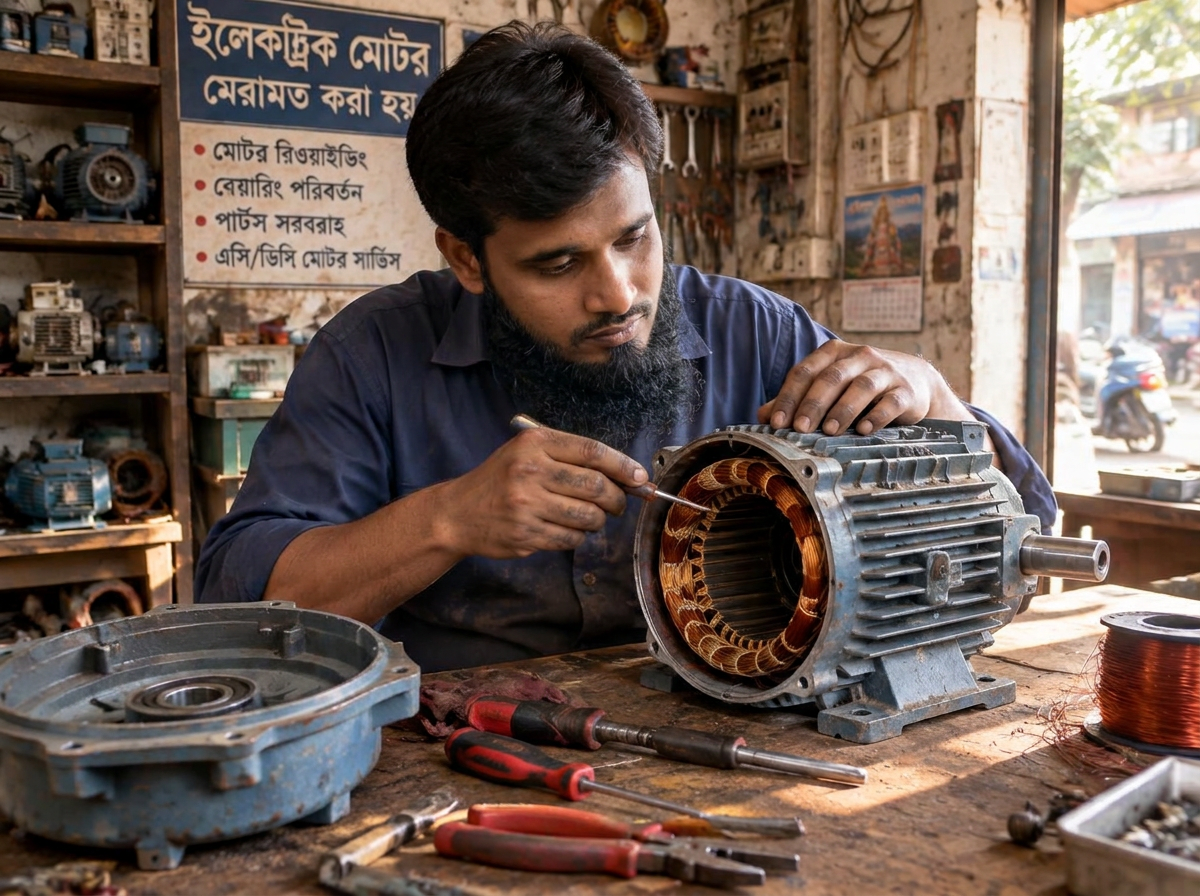
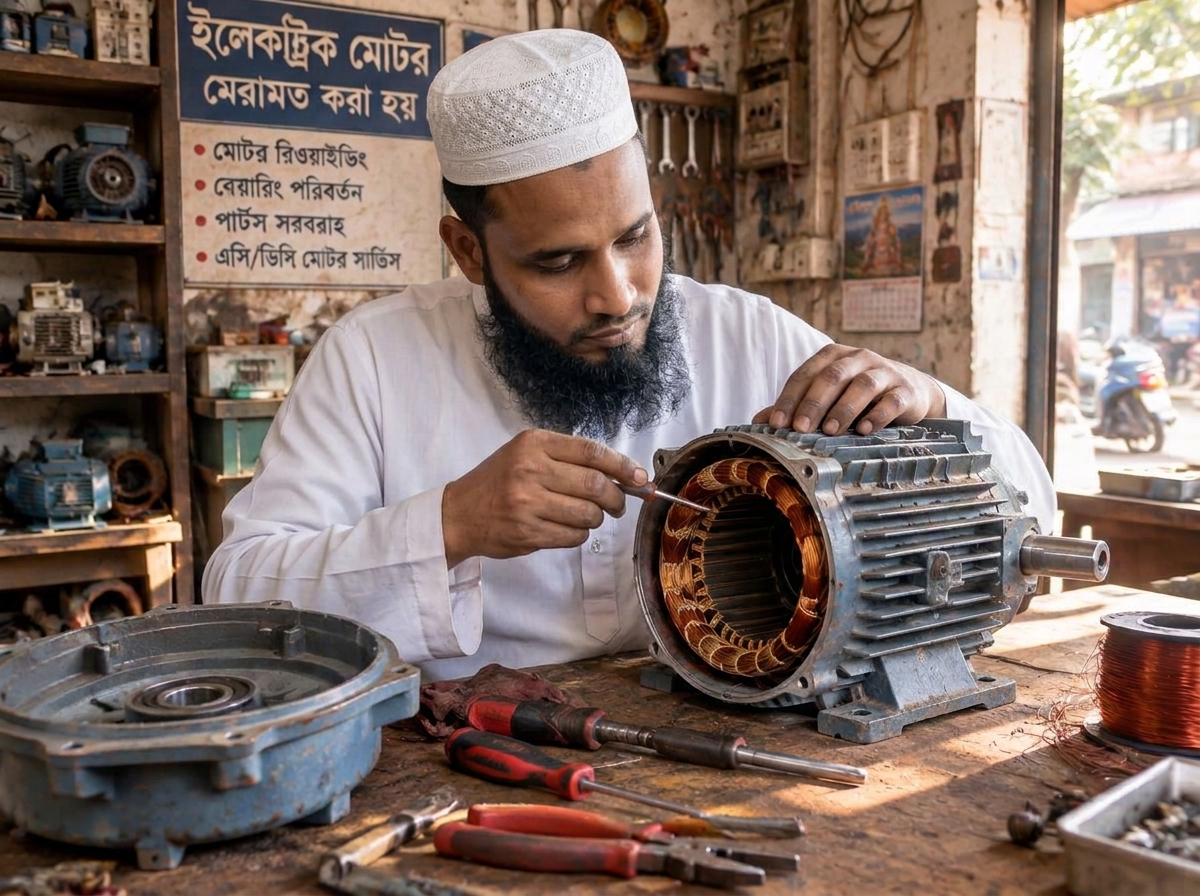
updated image and content

Changed region(s): [[0.1542, 0.0, 0.8942, 0.7812]]

diff --git a/src/routes/index.tsx b/src/routes/index.tsx
@@ -3,10 +3,11 @@ import { useEffect, useState, type ReactNode } from "react";
 import { ArrowRight, CheckCircle2, ClipboardList, Cog, MapPin, Menu, MessageCircle, Phone, PhoneCall, Search, Wrench, X } from "lucide-react";
 import { business, buyMotorMessage, rentalMessage, sellMotorMessage, serviceMessage, setupMessage, telHref, whatsappHref } from "@/lib/business-config";
 import { ContactForm } from "@/components/site/ContactForm";
-import ashikImg from "@/assets/ashik.jpg";
-import wazedImg from "@/assets/wazed-ali.jpg";
+import person1Img from "@/assets/person2.jpg";
+import person2Img from "@/assets/person1.jpg";
 import hero from "@/assets/hero-motor.jpg";
 import coil from "@/assets/coil.jpg";
+import coil2 from "@/assets/Rewinding.png";
 import threePhase from "@/assets/three-phase.jpg";
 import submersible from "@/assets/submersible.jpg";
 import riceMill from "@/assets/rice-mill.jpg";
@@ -32,7 +33,7 @@ export const Route = createFileRoute("/")({
 const services = [
   { t: "সিঙ্গেল ফেজ মোটর মেরামত", d: "বাসাবাড়ি ও দোকানের সিঙ্গেল ফেজ মোটর, ক্যাপাসিটর ও সুইচ সমস্যা।", img: coil, alt: "সিঙ্গেল ফেজ মোটরের কয়েল" },
   { t: "থ্রি ফেজ মোটর মেরামত", d: "কারখানা ও মিলের থ্রি ফেজ মোটরের সার্ভিসিং ও রিওয়াইন্ডিং।", img: threePhase, alt: "নীল রঙের থ্রি ফেজ ইন্ডাস্ট্রিয়াল মোটর" },
-  { t: "মোটর কয়েল রিওয়াইন্ডিং", d: "পুড়ে যাওয়া মোটরের কয়েল নতুন কপার তার দিয়ে বাধাই।", img: coil, alt: "মোটরের স্টেটরে কপার কয়েল বাধাই" },
+  { t: "মোটর কয়েল রিওয়াইন্ডিং", d: "পুড়ে যাওয়া মোটরের কয়েল নতুন কপার তার দিয়ে বাধাই।", img: coil2, alt: "মোটরের স্টেটরে কপার কয়েল বাধাই" },
   { t: "রাইস মিল ও কারখানার মোটর", d: "রাইস মিলের মোটর ও সংশ্লিষ্ট বৈদ্যুতিক যন্ত্রের মেরামত।", img: riceMill, alt: "বেল্ট ড্রাইভসহ রাইস মিলের মোটর" },
   { t: "সাবমার্সিবল পাম্প মেরামত", d: "সাবমার্সিবল ও পানির পাম্পের মোটর মেরামত।", img: submersible, alt: "ওয়ার্কবেঞ্চে রাখা সাবমার্সিবল পানির পাম্প" },
   { t: "পানি তোলার মোটর ও পাম্প ভাড়া", d: "জমি, পুকুর বা কৃষিকাজে পানি তোলার জন্য মোটর ও সাবমার্সিবল পাম্প ভাড়া।", img: submersible, alt: "পানি তোলার সাবমার্সিবল পাম্প", msg: rentalMessage, cta: "পাম্প ভাড়া নিতে যোগাযোগ করুন" },
@@ -53,17 +54,17 @@ const steps = [
 ];
 const people = [
   {
-    name: "আশিক",
+    name: "মোঃ আশিকুল ইসলাম আলী",
     role: "ব্যবসার পরিচিতি ও গ্রাহক যোগাযোগ",
     desc: "আশিক ইলেকট্রিক ওয়ার্কস এন্ড সার্ভিসিং সেন্টারের সার্ভিস, মোটর কেনাবেচা, পাম্প ভাড়া এবং অন্যান্য কাজ সম্পর্কে জানতে যোগাযোগ করুন।",
-    img: ashikImg.url,
+    img: person1Img,
     alt: "আশিক — আশিক ইলেকট্রিক ওয়ার্কস এন্ড সার্ভিসিং সেন্টার",
   },
   {
     name: "মোঃ ওয়াজেদ আলী",
     role: "মোটর মেরামত ও মিল-কারখানার ইলেকট্রিক্যাল কাজ",
     desc: "সিঙ্গেল ফেজ ও থ্রি ফেজ মোটর, কয়েল রিওয়াইন্ডিং, সাবমার্সিবল পাম্প এবং মিল-কারখানার বিভিন্ন ইলেকট্রিক্যাল কাজ সম্পর্কে জানতে যোগাযোগ করুন।",
-    img: wazedImg.url,
+    img: person2Img,
     alt: "মোঃ ওয়াজেদ আলী — মোটর মেরামত ও ইলেকট্রিক্যাল কাজ",
   },
 ];
